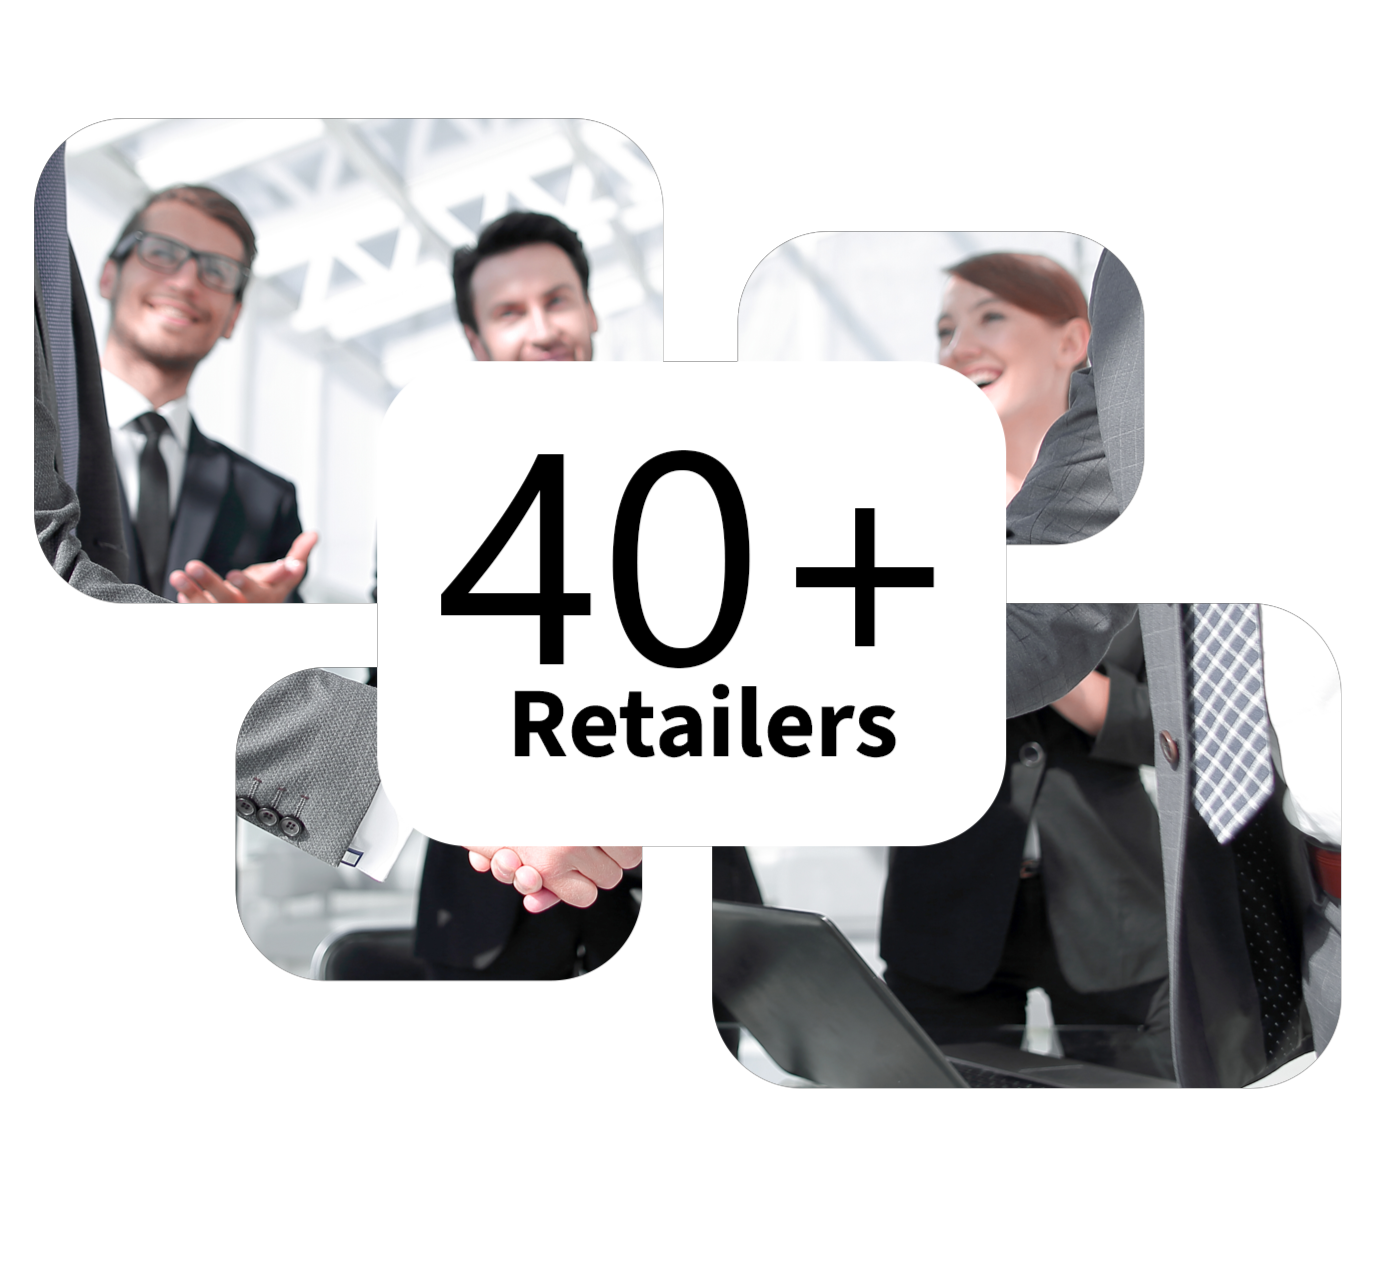
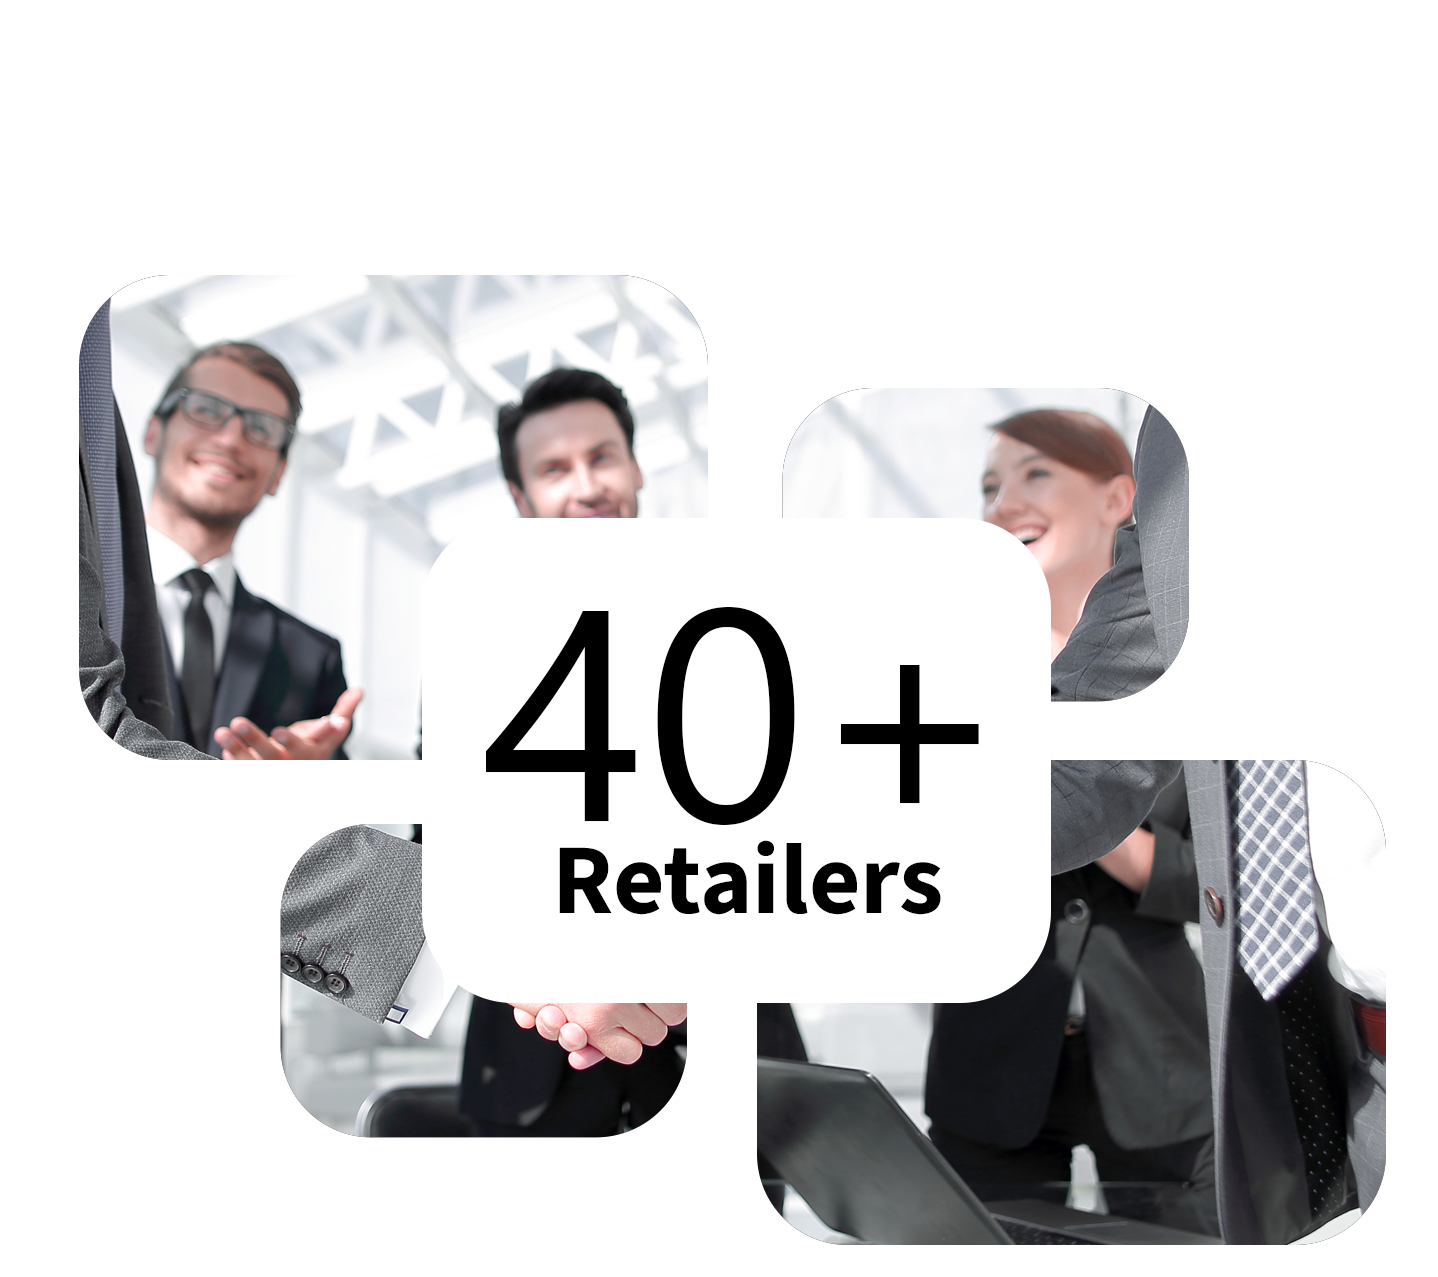
image replaced

diff --git a/src/components/HomePage/ournetwork.jsx b/src/components/HomePage/ournetwork.jsx
@@ -64,7 +64,7 @@ export default function Ournetwork() {
                 </div>
               </div>
             </div>
-            <div className="col-lg-6 col-md-6 col-sm-12" style={{padding:"80px 0 0 0"}}>
+            <div className="col-lg-6 col-md-6 col-sm-12">
               <img src={Gall} alt="image" style={{maxWidth:"600px"}}/>
           
             </div>
